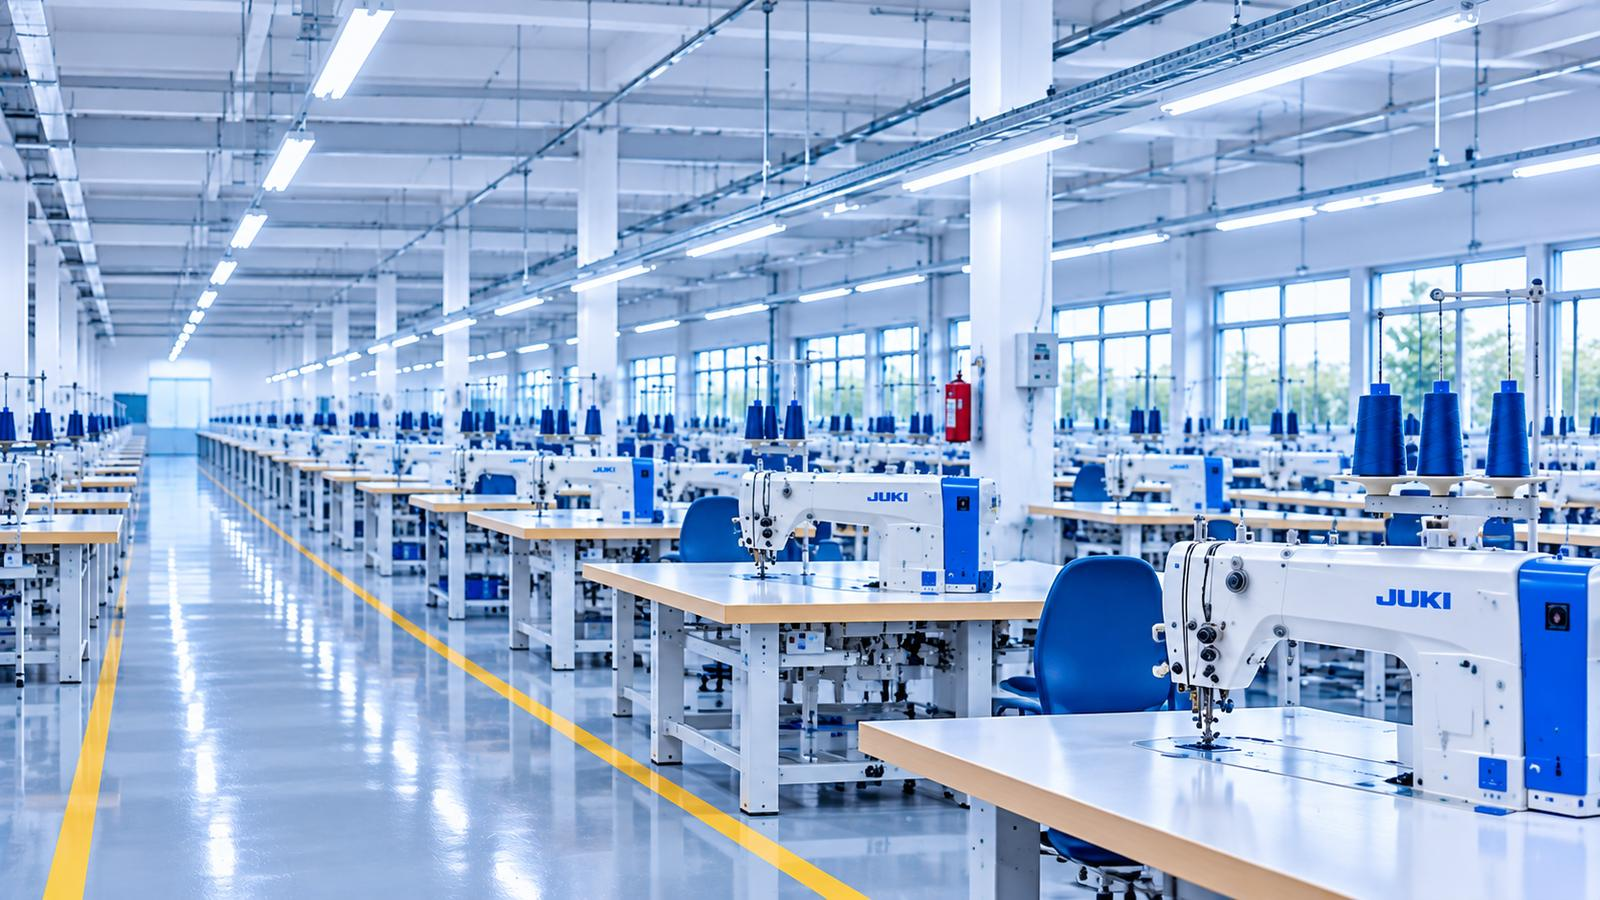
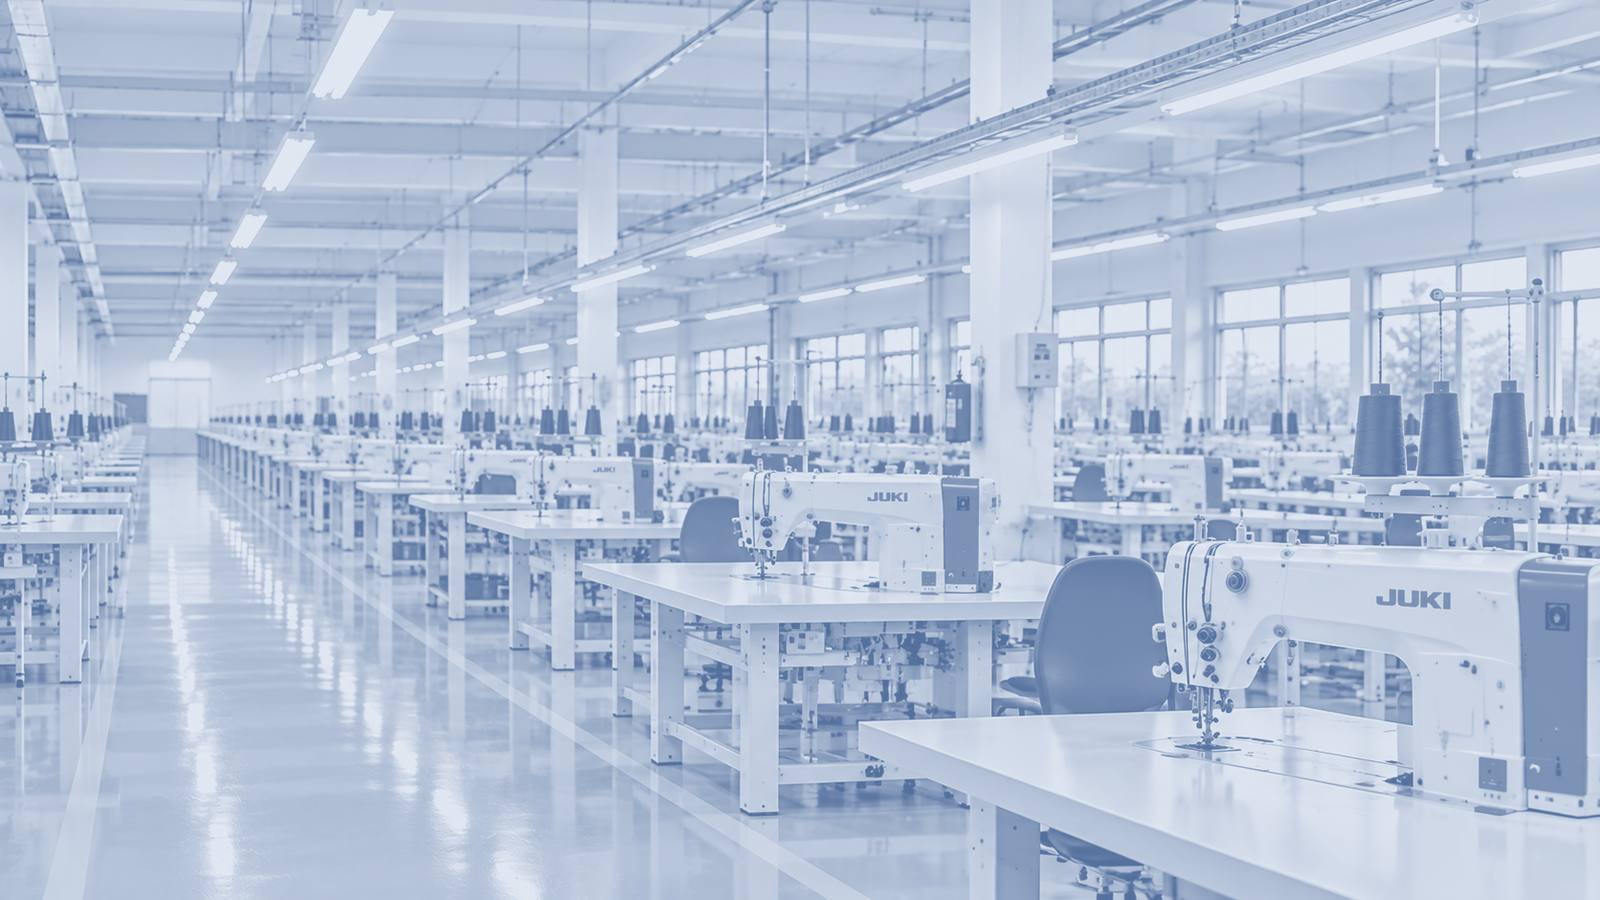
Photos en camaïeu bleu (charte), voile plus froid ; Flux sur téléphone : modèle en titre au-dessus de ses tailles
Claude-Session: https://claude.ai/code/session_011tZ2ryrmjShnojJ2Y9rZaf

diff --git a/suivi-commandes.html b/suivi-commandes.html
@@ -4147,7 +4147,9 @@ function vFlux(v){
   function majTotaux(){ groupes.forEach(function(g){ if (g.maj) g.maj(); }); }
   items.forEach(function(it){
     var l = it.l, lk = l.lib + "|" + l.client, key = l.id + stage, keyN = key + "n";
-    if (lk !== pl){ if (grp) totLigne(grp); pl = lk; grp = {items:[], b:0, d:0, p:0, cell:el("td", {class:"xm"}, el("b", {text:l.lib}), el("small", {text:l.client}))}; groupes.push(grp); }
+    if (lk !== pl){ if (grp) totLigne(grp); pl = lk; grp = {items:[], b:0, d:0, p:0, cell:el("td", {class:"xm"}, el("b", {text:l.lib}), el("small", {text:l.client}))}; groupes.push(grp);
+      /* téléphone (23/11/2026) : le modèle en titre au-dessus de ses tailles, au lieu d'une colonne tout à droite hors de l'écran */
+      if (!PC) tb.appendChild(el("tr", {class:"xgr"}, el("td", {colspan:"6"}, el("b", {text:l.lib}), " ", el("small", {text:l.client})))); }
     grp.items.push(it); grp.b += it.base; grp.d += it.done; grp.p += it.disp;
     var ncv = keyN in ui.fv ? ui.fv[keyN] : 0;
     var val = key in ui.fv ? ui.fv[key] : (capped ? Math.max(0, it.disp - ncv) : it.disp);
@@ -4173,12 +4175,12 @@ function vFlux(v){
     });
     it.inp = inp; it.inpN = inpN; it.keyN = keyN;
     var z = function(v){ return el("td", {class:v ? "" : "z", text:fmt(v)}); };
-    tb.appendChild(el("tr", {class:(it.disp ? "" : "vide") + (grp.items.length === 1 ? " x1" : "")}, el("td", {class:"l", text:l.size + (!prevS && l.cc ? " ✔" : "")}), z(it.base), z(it.done), el("td", {class:"b" + (it.disp ? "" : " z"), text:fmt(it.disp)}), el("td", {class:"fr"}, inp), el("td", {class:"fr"}, inpN), grp.items.length === 1 ? grp.cell : null));
+    tb.appendChild(el("tr", {class:(it.disp ? "" : "vide") + (grp.items.length === 1 ? " x1" : "")}, el("td", {class:"l", text:l.size + (!prevS && l.cc ? " ✔" : "")}), z(it.base), z(it.done), el("td", {class:"b" + (it.disp ? "" : " z"), text:fmt(it.disp)}), el("td", {class:"fr"}, inp), el("td", {class:"fr"}, inpN), grp.items.length === 1 && PC ? grp.cell : null));
   });
   if (grp) totLigne(grp);
   var t = el("table", {class:"flux xl"});
-  t.appendChild(el("colgroup", null, [90, 140, 110, 110, 120, 100, 210].map(function(w){ return el("col", {style:"width:" + w + "px"}); })));
-  t.appendChild(el("thead", null, el("tr", null, [["Taille","l"],[prevS ? names[prevS] : "Ordre coupe",""],["Déjà passé",""],["Disponible",""],["Conformes",""],["NC",""]].concat(t.className.indexOf("xl") >= 0 ? [["Modèle","l"]] : []).map(function(h){ return el("th", {class:h[1], text:h[0]}); }))));
+  t.appendChild(el("colgroup", null, (PC ? [90, 140, 110, 110, 120, 100, 210] : [58, 72, 64, 72, 88, 60]).map(function(w){ return el("col", {style:"width:" + w + "px"}); })));
+  t.appendChild(el("thead", null, el("tr", null, [["Taille","l"],[prevS ? names[prevS] : "Ordre coupe",""],["Déjà passé",""],["Disponible",""],["Conformes",""],["NC",""]].concat(PC && t.className.indexOf("xl") >= 0 ? [["Modèle","l"]] : []).map(function(h){ return el("th", {class:h[1], text:h[0]}); }))));
   t.appendChild(tb);
   function gather(){ var nm = [], tq = 0, tn = 0; items.forEach(function(it){ var q = num(it.inp.value), n = num(it.inpN.value); if (!q && !n) return; var mv = {id:nid("M"), date:iDate.value || today(), lineId:it.l.id, stage:stage, qty:q, nc:n, note:note.value || ""}; if (n && iMotif.value) mv.motif = iMotif.value; nm.push(mv); tq += q; tn += n; }); return {nm:nm, tq:tq, tn:tn}; }
   function gadhAsm(nm){

diff --git a/suivi-refonte.css b/suivi-refonte.css
@@ -31,7 +31,7 @@ button:focus-visible,select:focus-visible,input:focus-visible{outline:2px solid 
 }
 /* Fond TEK-TREND (23/11/2026) : photo de l'atelier, voilée pour garder les tableaux lisibles */
 html.fond-tek body::before{content:"";position:fixed;inset:0;z-index:-1;pointer-events:none;
-  background:linear-gradient(rgba(244,246,249,.78),rgba(244,246,249,.86)),url("./fond-tek.jpg") center / cover no-repeat;}
+  background:linear-gradient(rgba(241,245,251,.80),rgba(241,245,251,.88)),url("./fond-tek.jpg") center / cover no-repeat;}
 html.fond-tek,html.fond-tek body{background:transparent;}
 @media print{html.fond-tek body::before{display:none;}}
 /* cases « fusionnées » (modèle, référence, couleur) : pas de trait entre elles, valeur écrite une fois (suivi-fusion.js) */
@@ -39,3 +39,6 @@ td.fz:not(.fz-bas){border-bottom-style:hidden!important;}
 td.fz:not(.fz-haut){border-top-style:hidden!important;}
 td.fz-cache{color:transparent!important;}
 td.fz-cache *{visibility:hidden;}
+/* Flux, téléphone : titre du modèle au-dessus de ses tailles */
+table.flux tr.xgr td{background:#E8EEF8;color:#0B2560;text-align:left;padding:7px 8px;font-size:13px;border-top:2px solid #9DB3D6;}
+table.flux tr.xgr td small{color:#5B6B85;font-weight:600;margin-left:4px;}

diff --git a/refonte.css b/refonte.css
@@ -354,7 +354,7 @@ html[data-theme="dark"] .fact-kpis .fk-alerte{background:rgba(220,38,38,.12) !im
 }
 /* Fond du module TEK-TREND (23/11/2026) : photo de l'atelier, voilée pour garder les écrans lisibles */
 .app-body.fond-tek::before{content:'';position:fixed;inset:0;z-index:-1;pointer-events:none;
-  background:linear-gradient(rgba(244,246,249,.78),rgba(244,246,249,.86)),url('./fond-tek.jpg') center / cover no-repeat;}
+  background:linear-gradient(rgba(241,245,251,.80),rgba(241,245,251,.88)),url('./fond-tek.jpg') center / cover no-repeat;}
 body.fond-tek{background:transparent!important;}
 html[data-theme="dark"] .app-body.fond-tek::before{background:linear-gradient(rgba(11,18,32,.86),rgba(11,18,32,.92)),url('./fond-tek.jpg') center / cover no-repeat;}
 @media print{.app-body.fond-tek::before{display:none;}}

diff --git a/sw.js b/sw.js
@@ -1,7 +1,7 @@
 // GTM Groupe — Service Worker
 // Change ce numéro de version à chaque mise à jour du site pour forcer
 // les téléphones déjà installés à récupérer la nouvelle version.
-const CACHE_NAME = 'groupe-v346';
+const CACHE_NAME = 'groupe-v347';
 
 // Fichiers de l'application (même dossier que sw.js) : tous mis en cache dès
 // l'installation, pour que l'application s'ouvre aussi SANS réseau.
